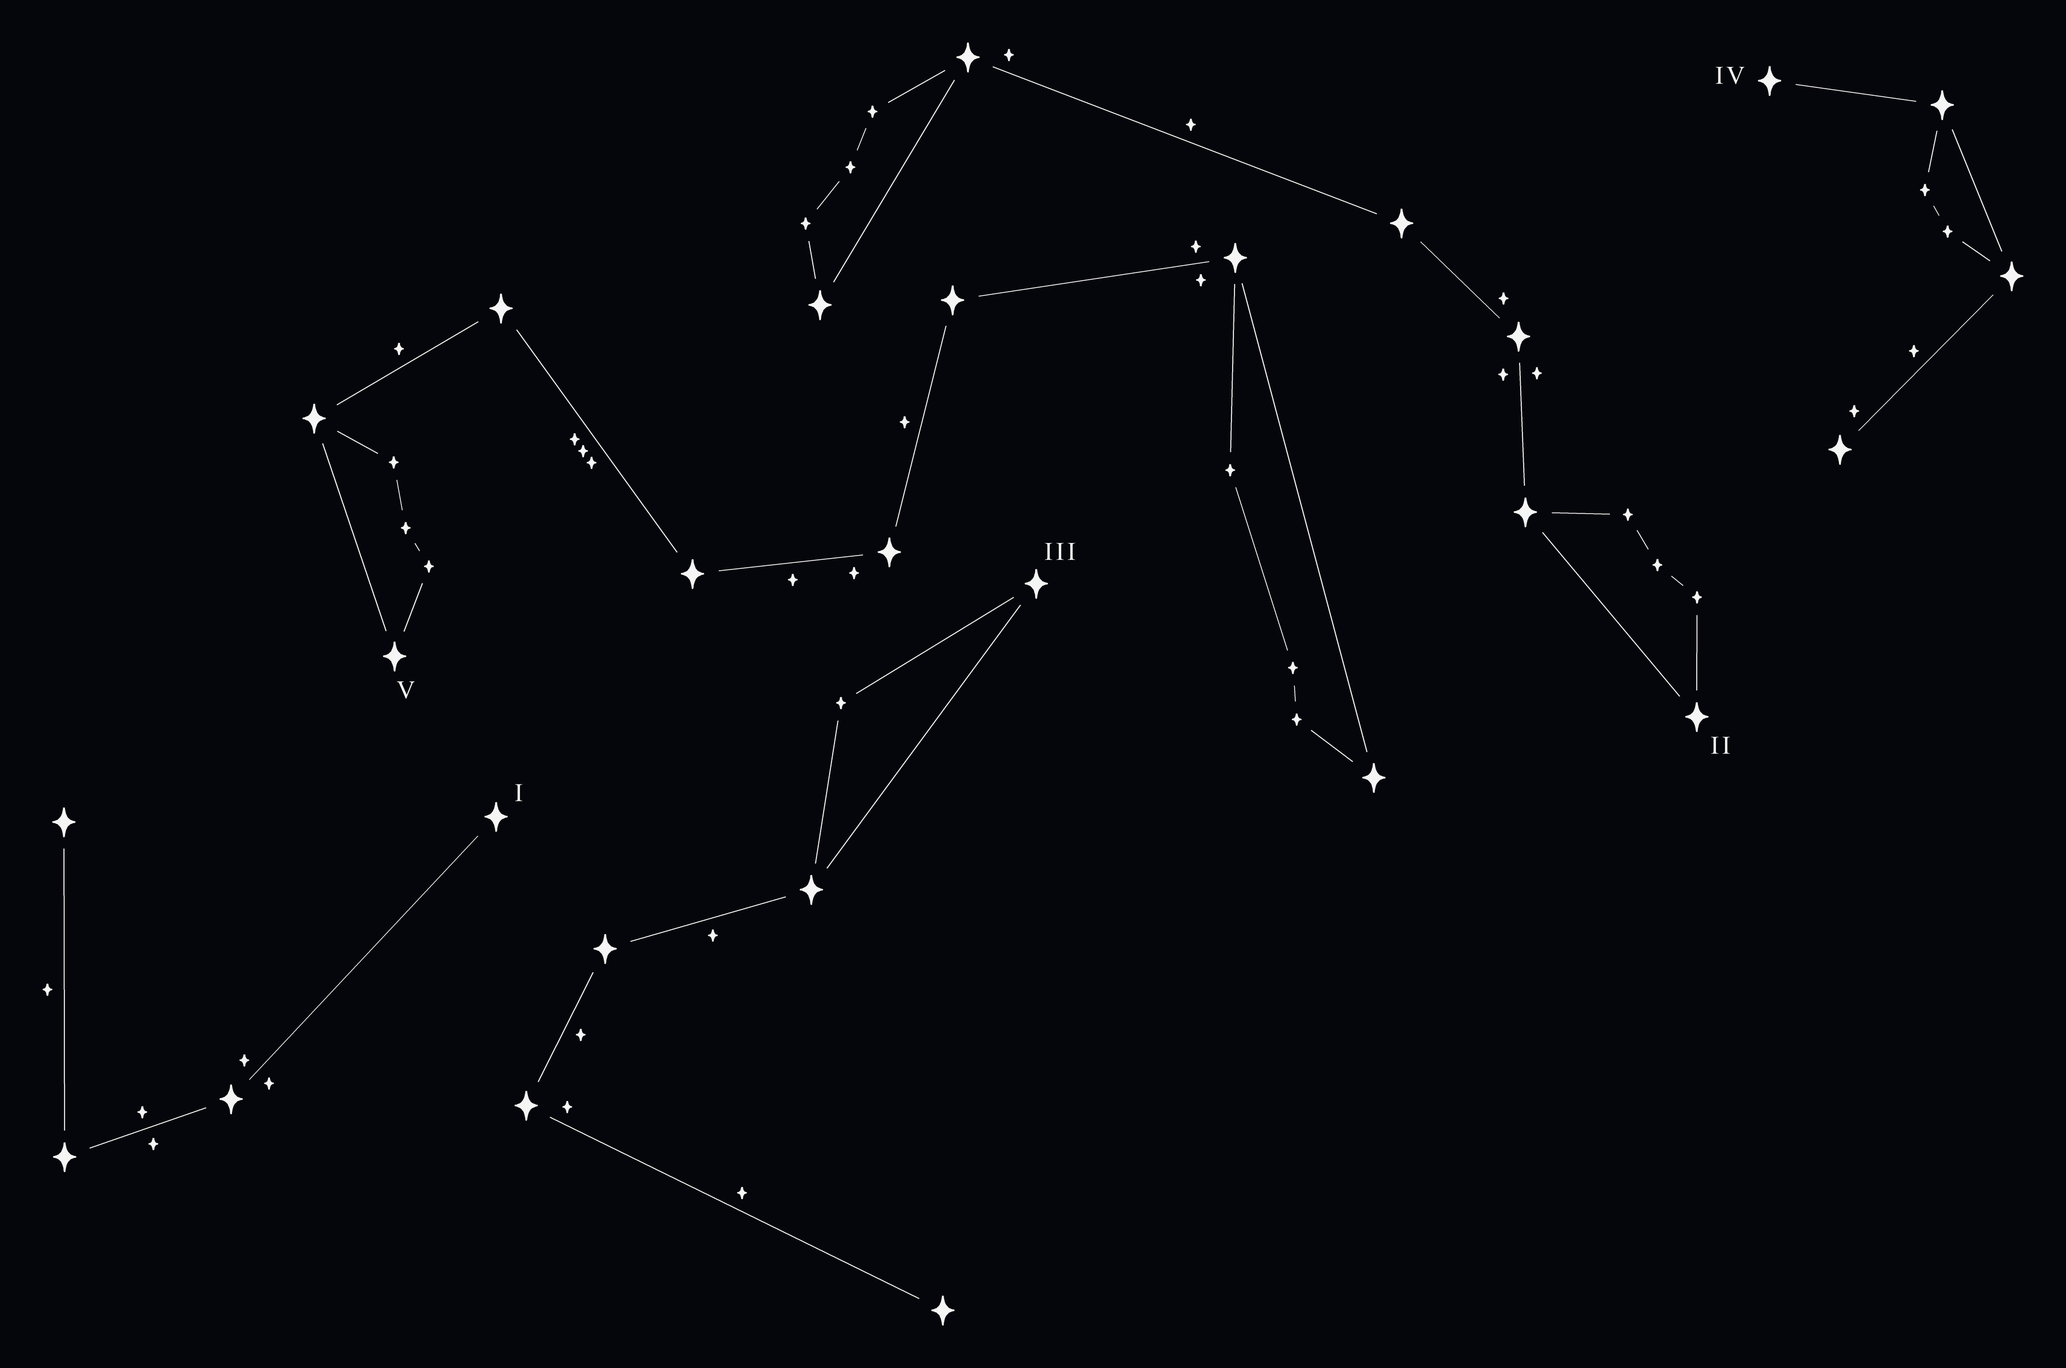
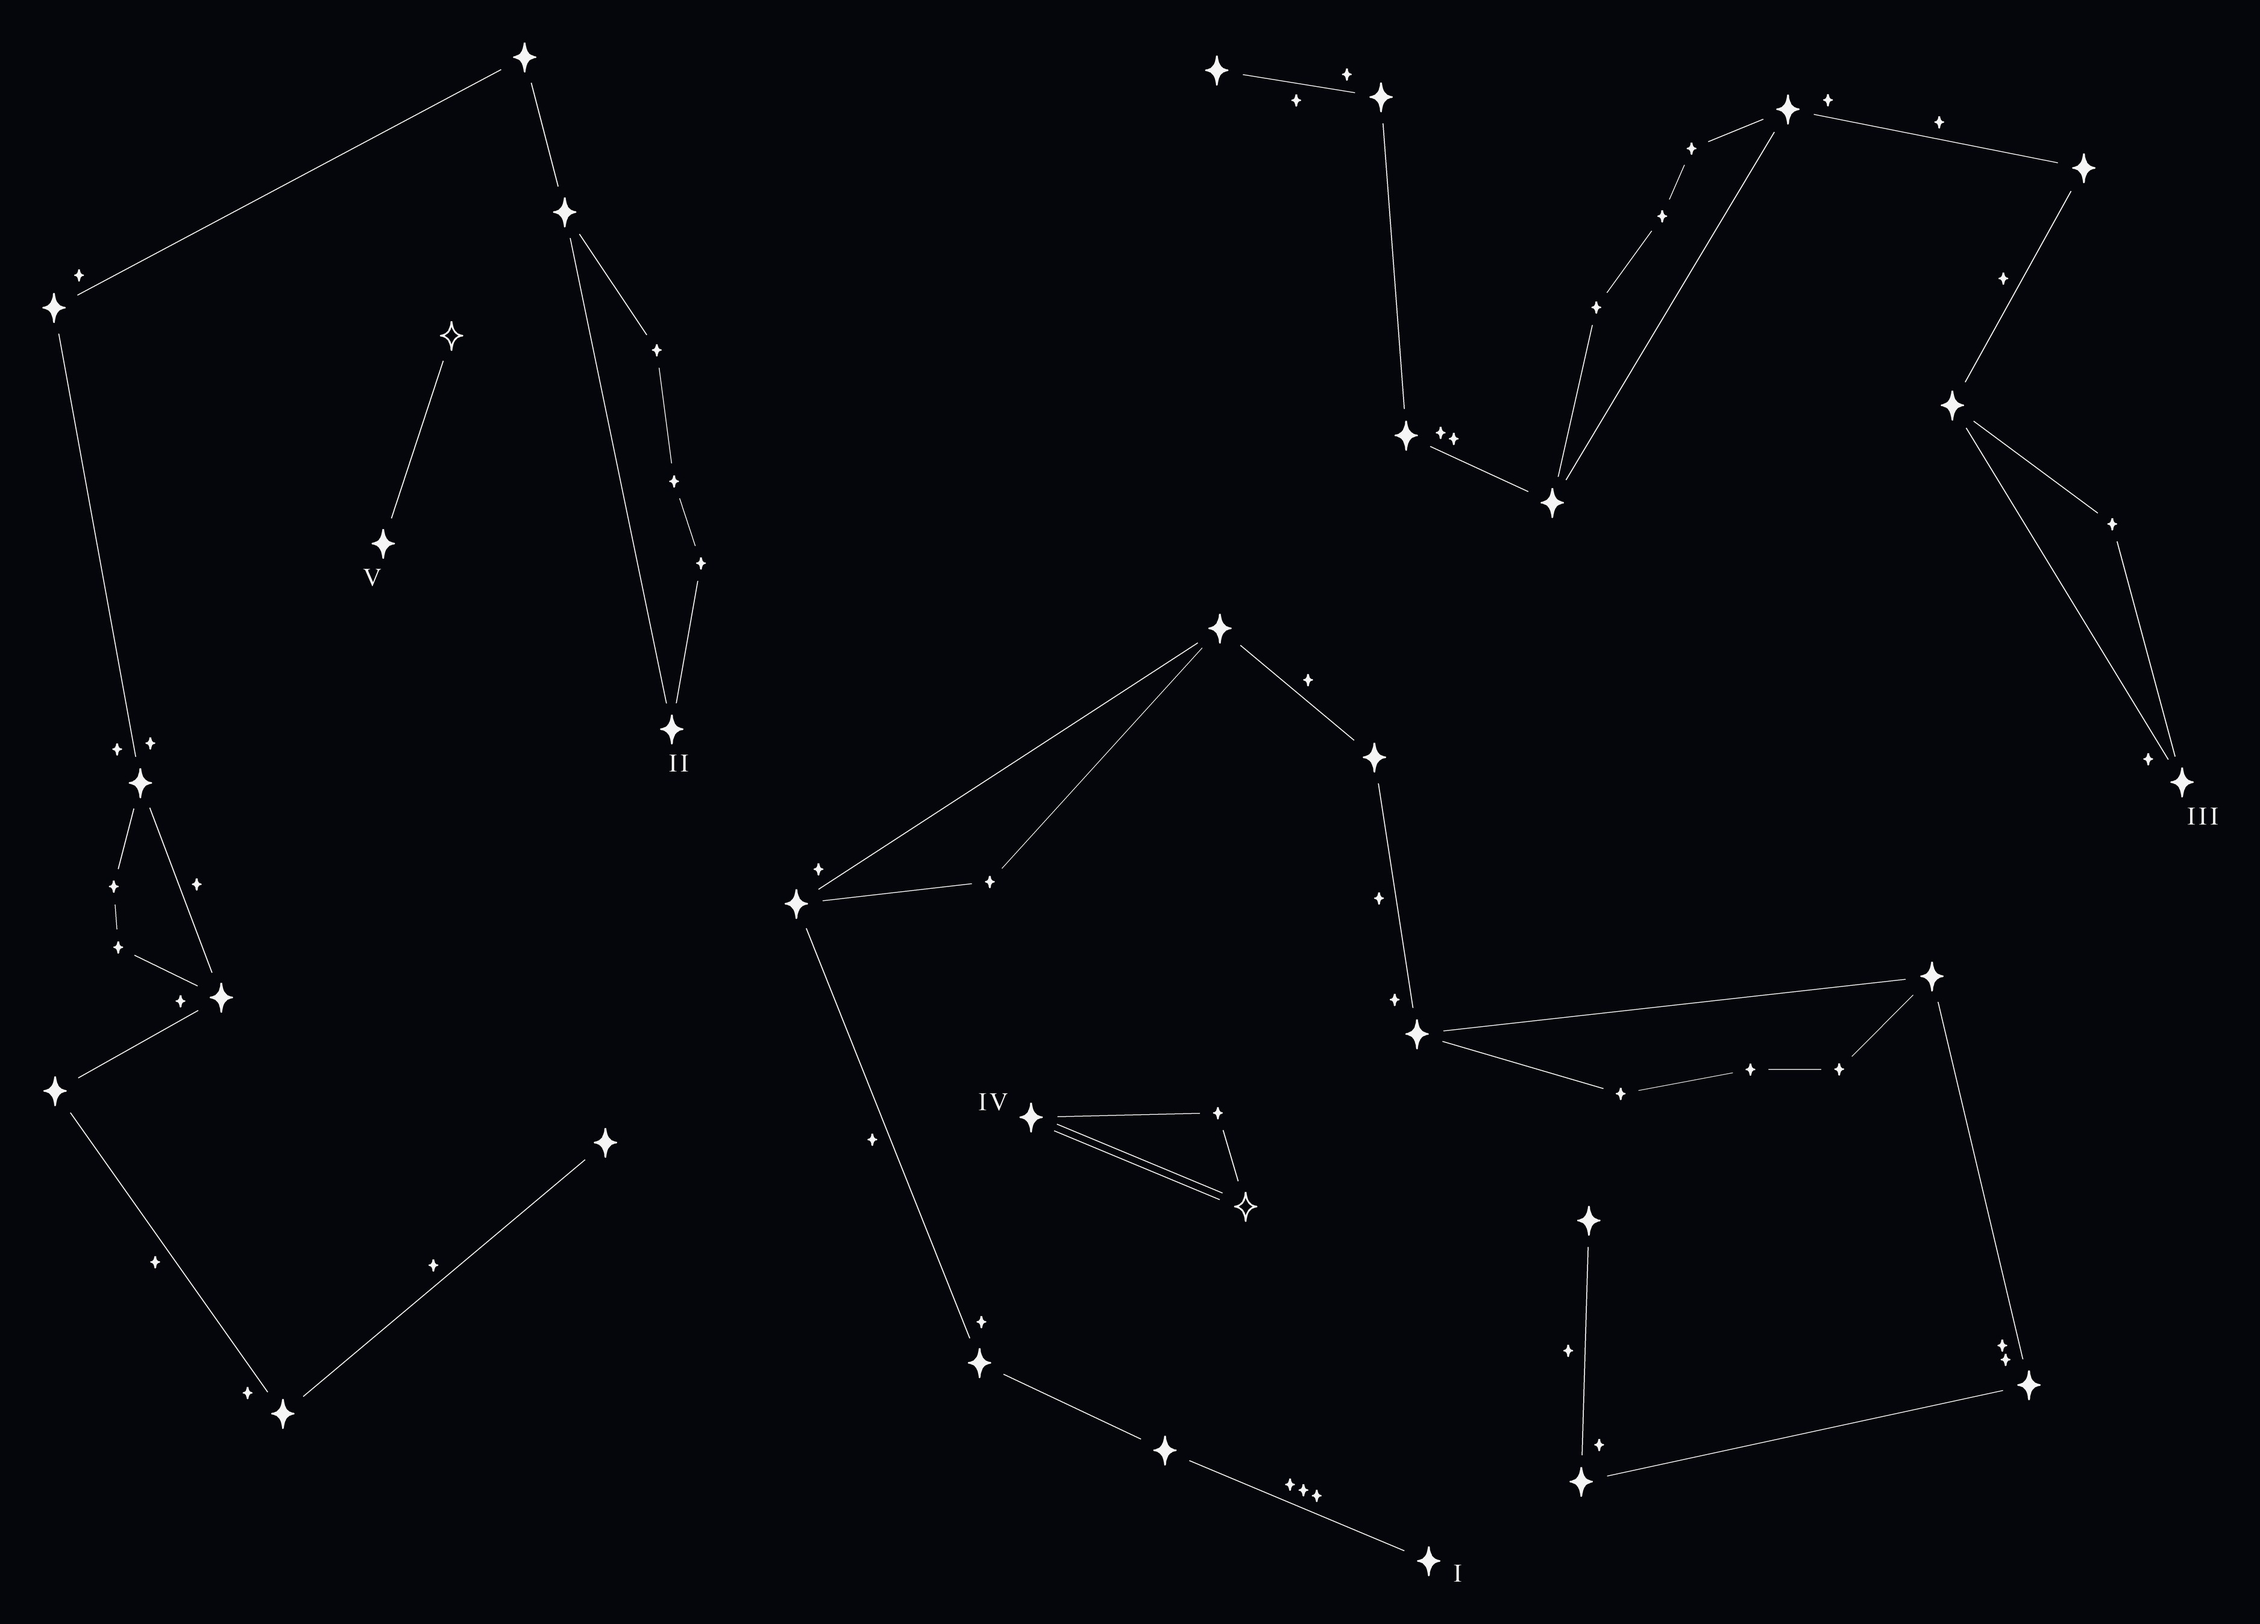
Astro Cipher: use the new constellation picture

diff --git a/index.html b/index.html
@@ -386,8 +386,8 @@
           word from its numbered star.
         </p>
         <figure>
-          <a href="assets/astro-cipher.jpg" aria-label="Open the constellation full size"><img src="assets/astro-cipher.jpg" width="3429" height="2270" loading="lazy"
-               alt="Filled white stars and thin lines on a black sky: five chains of stars numbered I to V, with small stars and roofs of stars along the lines between big stars. It looks like a hand-drawn constellation map."></a>
+          <a href="assets/astro-cipher.jpg" aria-label="Open the constellation full size"><img src="assets/astro-cipher.jpg" width="3750" height="2695" loading="lazy"
+               alt="Filled white stars and thin lines on a black sky: five chains of stars numbered I to V, with small stars, roofs of stars and a few hollow stars along the lines between big stars. It looks like a hand-drawn constellation map."></a>
           <figcaption>An encoded line in five words. Can you read it?</figcaption>
         </figure>
         <div class="links">
